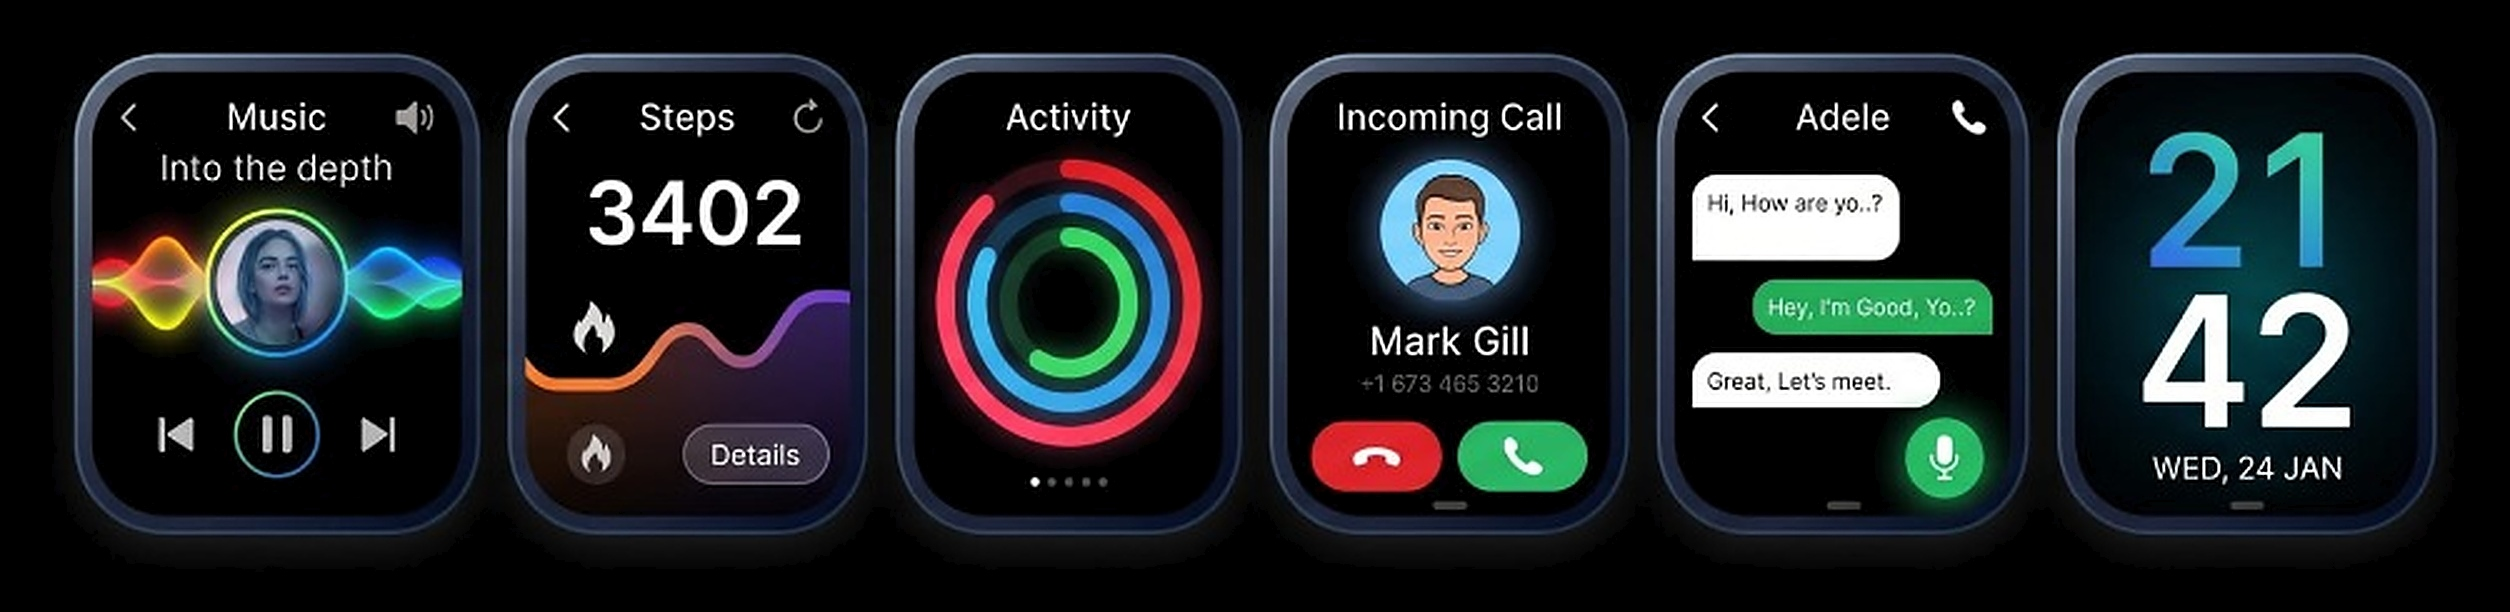
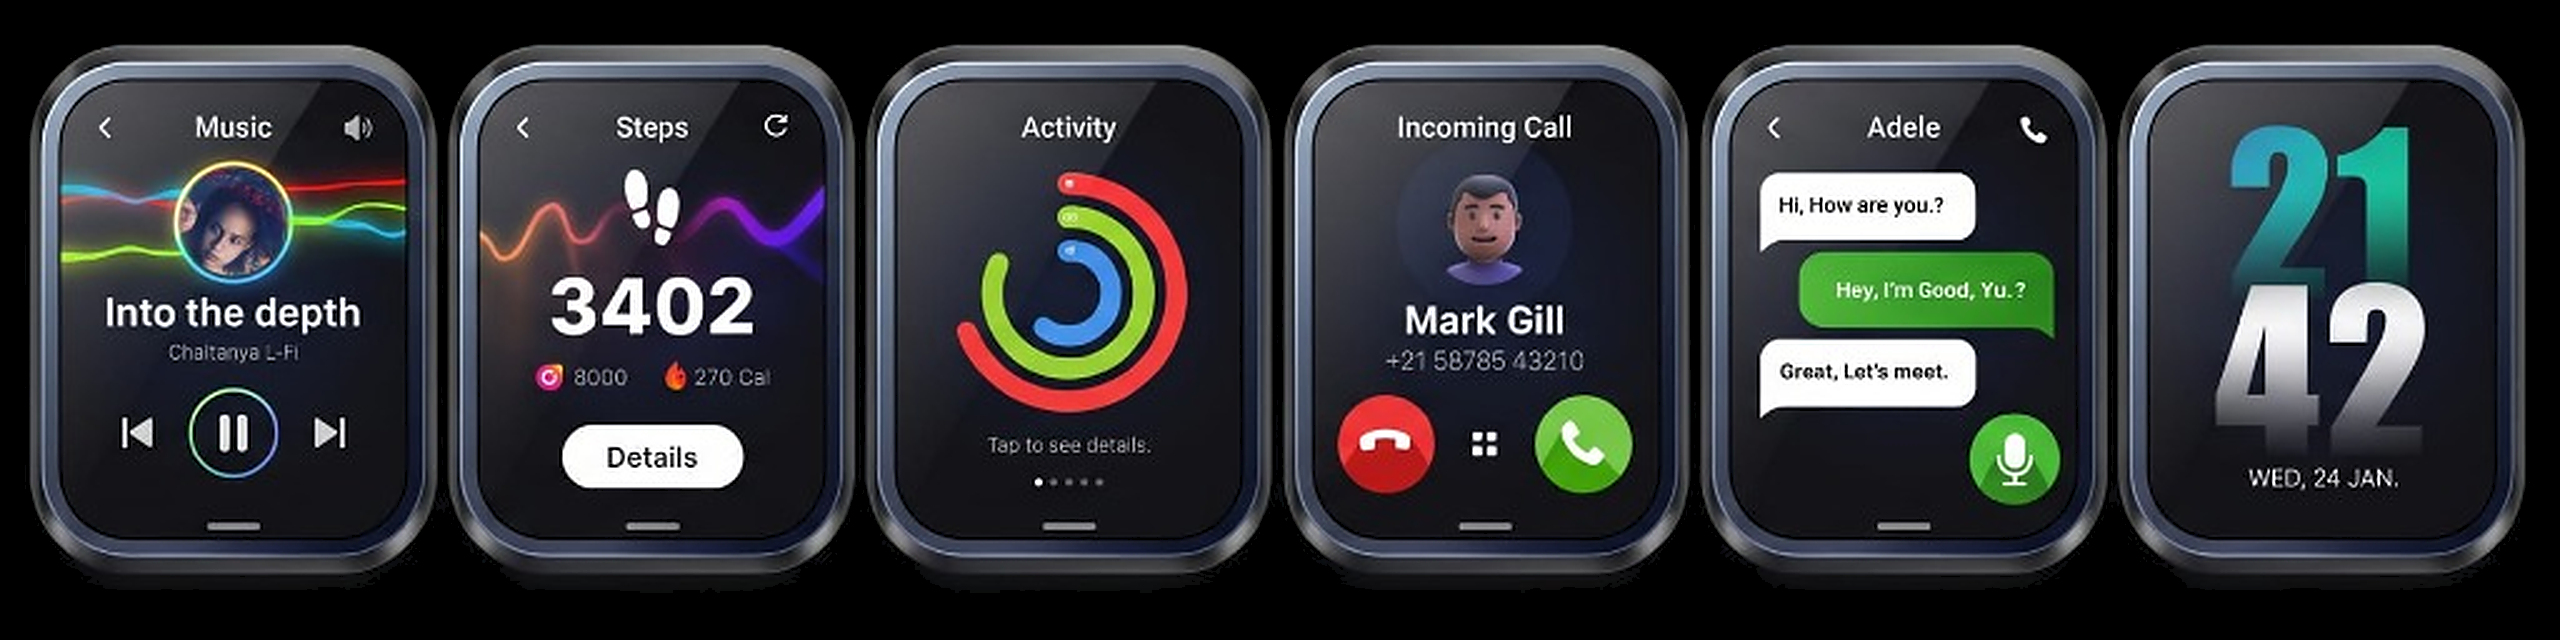
feat(watch-faces): replace top showcase with new refined watch screens graphic

diff --git a/components/WatchFacesSection.js b/components/WatchFacesSection.js
@@ -21,9 +21,9 @@ export default function WatchFacesSection() {
         </div>
 
         {/* Showcase 1 Image */}
-        <div className="w-full max-w-4xl lg:max-w-5xl mx-auto relative z-10 flex items-center justify-center px-4 sm:px-6">
+        <div className="w-full max-w-5xl lg:max-w-6xl mx-auto relative z-10 flex items-center justify-center px-4 sm:px-6">
           <img
-            src="/images/smart-interfaces-fullscreen.jpg?v=crispHQ"
+            src="/images/smart-interfaces-fullscreen.png?v=v2new"
             alt="VELTRIX Smart Watch Interfaces and Features"
             className="w-full h-auto block"
             loading="eager"
